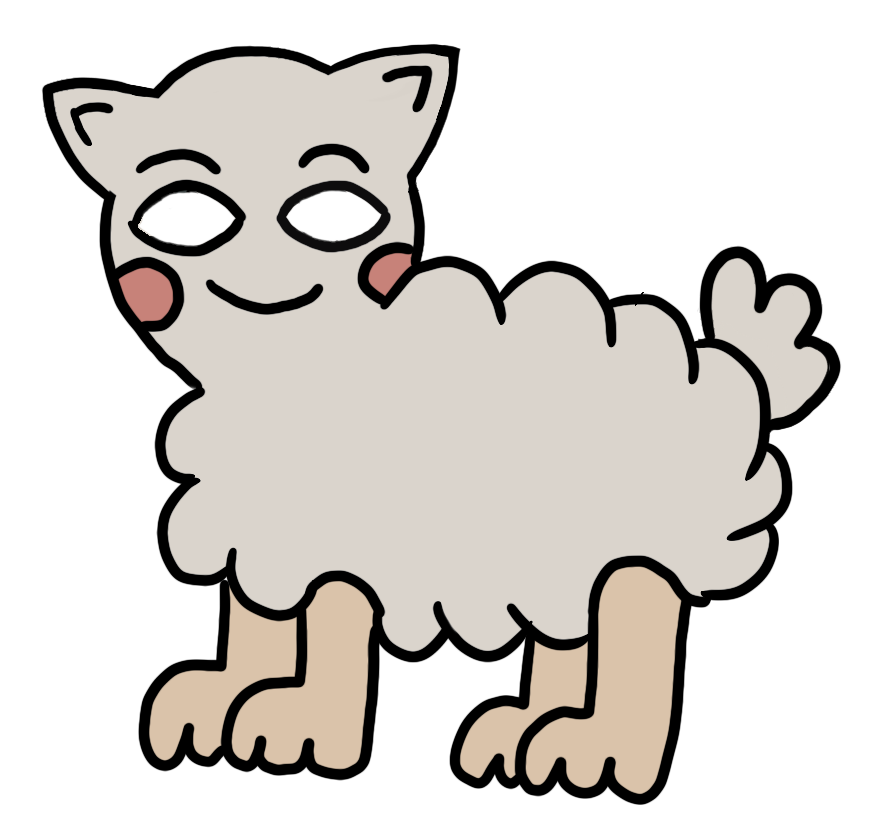
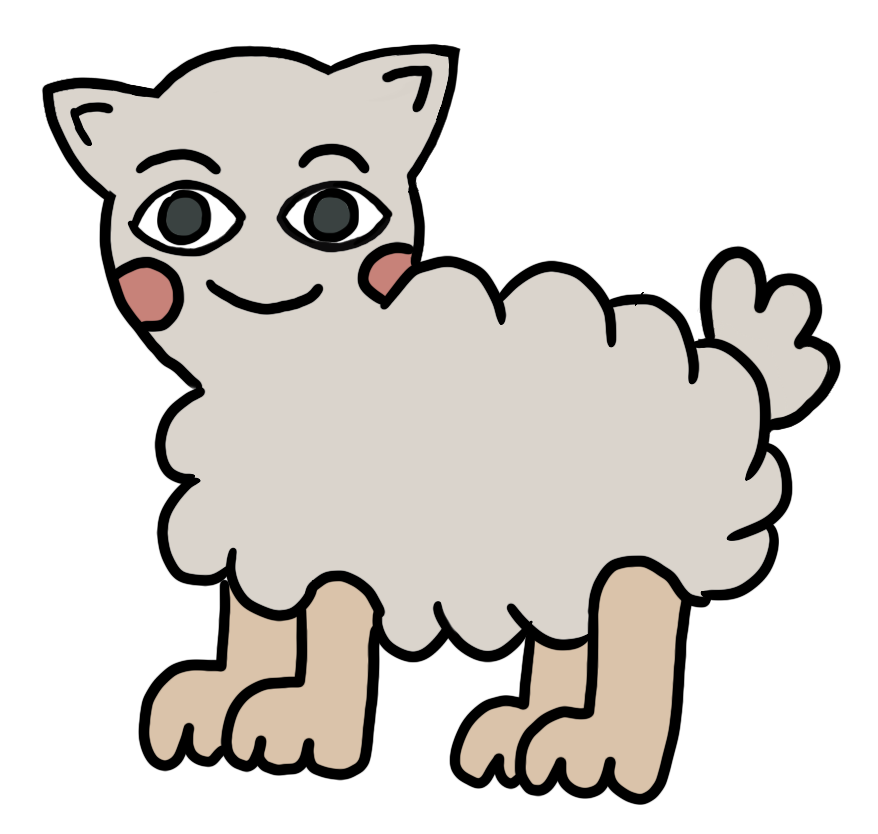
change

Changed region(s): [[0.1538, 0.2182, 0.2768, 0.3118], [0.3383, 0.2182, 0.4305, 0.3118]]

diff --git a/js/p5-sheepEyes.js b/js/p5-sheepEyes.js
@@ -1,0 +1,104 @@
+// let spritedata
+// let spritesheet
+// let body1;
+// let animation = []
+
+
+function setup() {
+  createCanvas(400, 400);
+}
+
+function draw() {
+  background("#FC766A");
+  //whites ofeye
+  noStroke();
+  fill(255);
+  circle(width/2,height/2,200);
+  //iris
+  let xc =constrain(mouseX, 170, 230);
+  let xs = constrain(mouseY, 170,230);
+  fill(0);
+  circle(xc,xs,100);
+  //glare
+  fill(255);
+  circle(xc+20,xs-20,20);
+}
+
+// function preload(){
+
+//  body1 = loadImage('./sheep/1.png');
+//  body2 = loadImage('./sheep/2.png');
+//  body3 = loadImage('./sheep/3.png');
+//  body4 = loadImage('./sheep/4.png');
+ 
+// }
+// console.log("body test" + body1);
+// function setup() {
+//     console.log("test preload");
+//   background(255);  
+// //   createCanvas(window.screen.width+180, window.screen.height-180);
+//   createCanvas(1700,355);
+//   frameRate(10)
+  
+//   animation.push(body1)
+//   animation.push(body2)
+//   animation.push(body3)
+//   animation.push(body4)
+//   sheep.push(new Sprite(animation, -0.5 , 0, 0 ))
+  
+// }
+
+// function draw() {
+//   background("#F1AC88");
+//   // fill(0);
+  
+//   // ellipse(xLeft, y, 30);
+//   // ellipse(xRight, y, 30);
+
+//   // y = map(mouseY, 0, height, 200, 200, true);
+//   // xLeft = map(mouseX, 0, width, 150, 170, true);
+//   // xRight = map(mouseX, 0, width, 230, 250, true);
+
+  
+//   sheep.forEach(horse => {
+//   	horse.show()
+//   	horse.animate()
+//   })
+// //   console.log("drawCalled");
+// //   console.log(mouseX);
+// //   console.log(mouseY);
+// }
+
+// class Sprite {
+//   constructor( animation, speed, x, y) {
+//   	this.animation = animation 
+//     this.len = this.animation.length
+//     this.speed = speed 
+//     this.index = 0
+//     this.x = x
+//     this.y = y
+//   }
+  
+//   show() {
+//     let index = Math.floor(this.index % this.len)
+//     image(this.animation[index],800,this.y)
+//   }
+  
+//   animate(){
+//     if (this.speed < 0 ){
+//       this.index -= this.speed
+//     }else {
+//       this.index += this.speed
+//     }
+  	
+//     // this.x += this.speed * 10
+    
+//     // if(this.x > width){
+//     // 	this.x = 0
+//     // }
+//     if(this.x < 0){
+//     	this.x = 20
+//     }
+//   }
+  
+// }

diff --git a/workingPage.html b/workingPage.html
@@ -1,48 +1,19 @@
 <!DOCTYPE html>
-<html lang="en">
-
-  <meta charset="UTF-8">
-
+<html>
   <head>
     <title>Procratination Site</title>
-    <link rel="stylesheet" href="css/style.css">
     <link href='https://fonts.googleapis.com/css?family=Nova Flat' rel='stylesheet'>
-    <script src=
-    "https://cdnjs.cloudflare.com/ajax/libs/animejs/3.2.0/anime.min.js"></script>
-    
-  </head>
+    <script src="https://cdnjs.cloudflare.com/ajax/libs/p5.js/0.9.0/p5.js"></script>
+    <script src="https://cdnjs.cloudflare.com/ajax/libs/p5.js/0.9.0/addons/p5.dom.min.js"></script>
+    <script src="https://cdnjs.cloudflare.com/ajax/libs/p5.js/0.9.0/addons/p5.sound.min.js"></script>
+    <link rel="stylesheet" type="text/css" href="css/style.css">
+    <meta charset="utf-8" />
 
+  </head>
   <body>
     <div class = title>
-        I will stare at you, now do your work 
+      I will stare at you, now work!
     </div>
-    <div class = sheep>
-      <img id = sheep1 src = "sheep/sheep.png" alt = "cute sheep">
-
-  </div>
-  <style>
-      #sheep1 {
-        height: 500px;
-        width: 500px;
-
-      }
-      </style>
-      <script>
-  let animation = anime({
-      targets: "div",
-      scale: 1.05,
-      duration: 1500,
-      easing: "linear",
-      
-      direction: "alternate",
-      keyframes: [
-
-          
-      ],
-      loop: true,
-      
-  });
-  </script>
-
-
+    <script src="sketch.js"></script>
+  </body>
 </html>

diff --git a/resultPage.html b/resultPage.html
@@ -8,6 +8,9 @@
     <link rel="stylesheet" href="css/style.css">
     <link href='https://fonts.googleapis.com/css?family=Nova Flat' rel='stylesheet'>
     <script defer src="js/coloring.js"></script>
+    <script src=
+    "https://cdnjs.cloudflare.com/ajax/libs/animejs/3.2.0/anime.min.js">
+            </script>
     <!-- <script defer src="cart.js"></script> -->
   </head>
 
@@ -56,6 +59,22 @@
         What should I do? 
       </a>
     </div>
+    <script>
+      let animation = anime({
+          targets: "div",
+          scale: 1.02,
+          duration: 1500,
+          easing: "linear",
+          
+          direction: "alternate",
+          keyframes: [
+
+              
+          ],
+          loop: true,
+          
+      });
+      </script>
   </body>
 
 </html>

diff --git a/js/info.js b/js/info.js
@@ -1,3 +1,4 @@
+//creating a map for causes and strategies
 const infoMap = {
     "Perfectionism": {
         "name": "Perfectionism",
@@ -37,6 +38,7 @@ const infoMap = {
     }    
 }
 
+// Attempted to generate the blocks but failed 
 // class information {
 //     constructor(infoName, infoTitle, infoBody) {
 
@@ -87,6 +89,7 @@ const infoMap = {
 //     createElement(info);
 //   }
 
+//access local storage and assign information on map to established blocks, if cause is falser then delete corresponding block
 function retrieveFromLocalStorage() {
     const choicesString = localStorage.getItem('storedChoices');
     choices = JSON.parse(choicesString);

diff --git a/sketch.js b/sketch.js
@@ -1,0 +1,27 @@
+let img;
+function preload() {
+    img = loadImage('./sheep/eyes.png');
+}
+  
+function setup() {
+    createCanvas(1600, 900);
+    
+  }
+  
+  function draw() {
+    background("#F1AC88");
+    noStroke();
+    fill(255);
+    circle(685, 250,180);
+    //iris
+    let xc =constrain(mouseX, 615, 662);
+    let xs = constrain(mouseY, 227, 240);
+    fill(0);
+    circle(xc,xs,30);
+    let xcR =constrain(mouseX, 710, 757);
+    let xsR = constrain(mouseY, 227, 240);
+    fill(0);
+    circle(xcR,xsR,30);
+    image(img, 510, 75, 600, 600);
+    
+  }

diff --git a/js/coloring.js b/js/coloring.js
@@ -1,3 +1,4 @@
+//access local storage and create list
 retrieveFromLocalStorage()
 
 function retrieveFromLocalStorage() {
@@ -6,9 +7,9 @@ function retrieveFromLocalStorage() {
         return
     }
     choices = JSON.parse(choicesString);
-    console.log(choices);
 }
 
+//updating colors
 if (choices.Perfectionism == true){
     cause = document.querySelector("#cause1");
     cause.style.backgroundColor="#FC766A";

diff --git a/index.html b/index.html
@@ -7,7 +7,6 @@
     <title>Procratination Site</title>
     <link rel="stylesheet" href="css/style.css">
     <link href='https://fonts.googleapis.com/css?family=Nova Flat' rel='stylesheet'>
-    <!-- <script defer src="question.js"></script> -->
     
     <script src="./anime-master/lib/anime.min.js"></script>
     <script src="./js/anime-test.js"></script>
